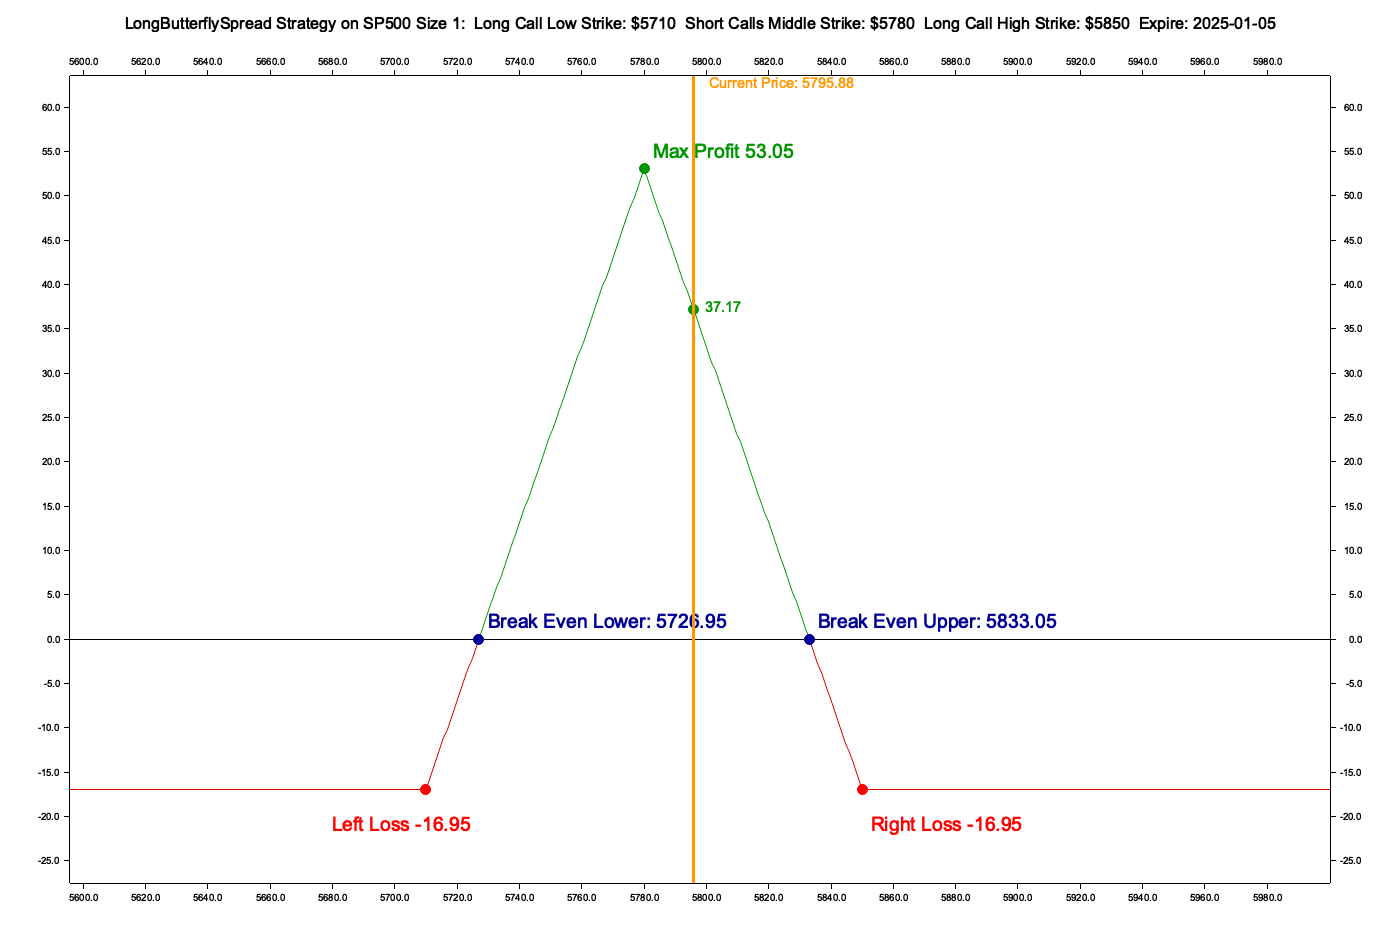
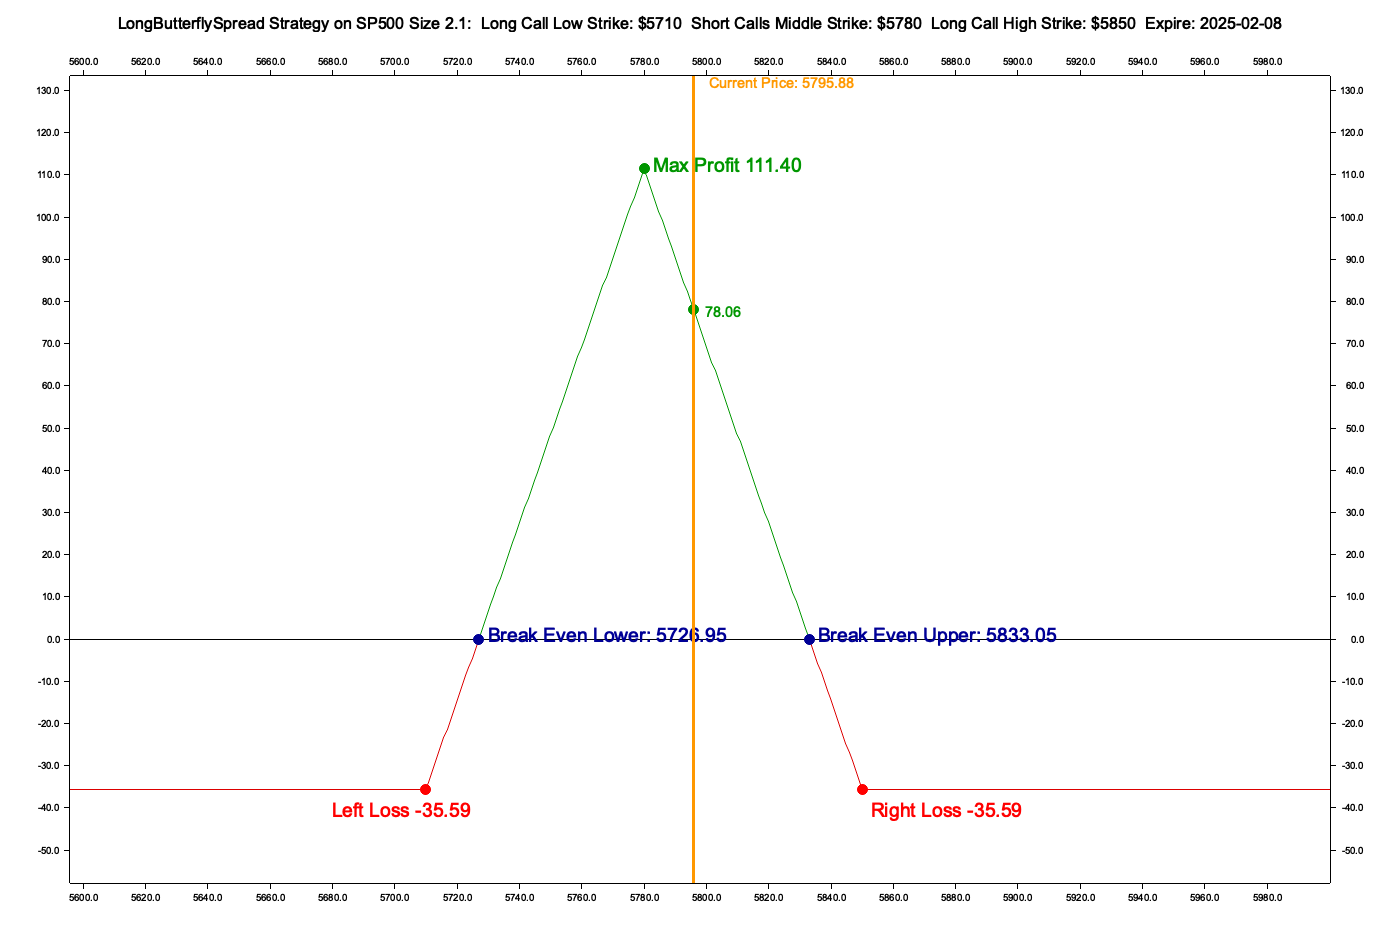
Refactor break-even calculation into dedicated function
Moved the break-even points calculation logic into `update_break_even_points` for both LongButterflySpread and ShortButterflySpread. This improves code readability, reduces duplication, and centralizes break-even handling for easier maintenance and scalability.

diff --git a/src/strategies/butterfly_spread.rs b/src/strategies/butterfly_spread.rs
@@ -168,26 +168,9 @@ impl LongButterflySpread {
 
         strategy.validate();
 
-        let left_net_value = strategy
-            .calculate_profit_at(strategy.long_call_low.option.strike_price)
-            .unwrap()
-            / quantity;
-        let right_net_value = strategy
-            .calculate_profit_at(strategy.long_call_high.option.strike_price)
-            .unwrap()
-            / quantity;
-
-        if left_net_value <= Decimal::ZERO {
-            strategy
-                .break_even_points
-                .push((strategy.long_call_low.option.strike_price - left_net_value).round_to(2));
-        }
-
-        if right_net_value <= Decimal::ZERO {
-            strategy
-                .break_even_points
-                .push((strategy.long_call_high.option.strike_price + right_net_value).round_to(2));
-        }
+        strategy
+            .update_break_even_points()
+            .expect("Unable to update break even points");
 
         strategy
     }
@@ -197,7 +180,31 @@ impl BreakEvenable for LongButterflySpread {
     fn get_break_even_points(&self) -> Result<&Vec<Positive>, StrategyError> {
         Ok(&self.break_even_points)
     }
+
+    fn update_break_even_points(&mut self) -> Result<(), StrategyError> {
+        self.break_even_points = Vec::new();
+
+        let left_net_value = self.calculate_profit_at(self.long_call_low.option.strike_price)?
+            / self.long_call_low.option.quantity;
+
+        let right_net_value = self.calculate_profit_at(self.long_call_high.option.strike_price)?
+            / self.long_call_high.option.quantity;
+
+        if left_net_value <= Decimal::ZERO {
+            self.break_even_points
+                .push((self.long_call_low.option.strike_price - left_net_value).round_to(2));
+        }
+
+        if right_net_value <= Decimal::ZERO {
+            self.break_even_points
+                .push((self.long_call_high.option.strike_price + right_net_value).round_to(2));
+        }
+
+        self.break_even_points.sort();
+        Ok(())
+    }
 }
+
 impl Validable for LongButterflySpread {
     fn validate(&self) -> bool {
         if !self.long_call_low.validate() {
@@ -979,27 +986,9 @@ impl ShortButterflySpread {
 
         strategy.validate();
 
-        let left_net_value = strategy
-            .calculate_profit_at(strategy.short_call_low.option.strike_price)
-            .unwrap()
-            / quantity;
-        let right_net_value = strategy
-            .calculate_profit_at(strategy.short_call_high.option.strike_price)
-            .unwrap()
-            / quantity;
-
-        if left_net_value >= Decimal::ZERO {
-            strategy
-                .break_even_points
-                .push((strategy.short_call_low.option.strike_price + left_net_value).round_to(2));
-        }
-
-        if right_net_value >= Decimal::ZERO {
-            strategy
-                .break_even_points
-                .push((strategy.short_call_high.option.strike_price - right_net_value).round_to(2));
-        }
-
+        strategy
+            .update_break_even_points()
+            .expect("Unable to update break even points");
         strategy
     }
 }
@@ -1007,6 +996,29 @@ impl ShortButterflySpread {
 impl BreakEvenable for ShortButterflySpread {
     fn get_break_even_points(&self) -> Result<&Vec<Positive>, StrategyError> {
         Ok(&self.break_even_points)
+    }
+
+    fn update_break_even_points(&mut self) -> Result<(), StrategyError> {
+        self.break_even_points = Vec::new();
+
+        let left_net_value = self.calculate_profit_at(self.short_call_low.option.strike_price)?
+            / self.short_call_low.option.quantity;
+
+        let right_net_value = self.calculate_profit_at(self.short_call_high.option.strike_price)?
+            / self.short_call_high.option.quantity;
+
+        if left_net_value >= Decimal::ZERO {
+            self.break_even_points
+                .push((self.short_call_low.option.strike_price + left_net_value).round_to(2));
+        }
+
+        if right_net_value >= Decimal::ZERO {
+            self.break_even_points
+                .push((self.short_call_high.option.strike_price - right_net_value).round_to(2));
+        }
+
+        self.break_even_points.sort();
+        Ok(())
     }
 }
 

diff --git a/examples/examples_strategies/src/bin/strategy_long_butterfly_spread.rs b/examples/examples_strategies/src/bin/strategy_long_butterfly_spread.rs
@@ -32,7 +32,7 @@ fn main() -> Result<(), Box<dyn Error>> {
         pos!(0.18),     // implied_volatility
         dec!(0.05),     // risk_free_rate
         Positive::ZERO, // dividend_yield
-        pos!(2.0),      // long quantity
+        pos!(2.1),      // long quantity
         pos!(113.3),    // premium_long_low
         pos!(64.20),    // premium_short
         pos!(31.65),    // premium_long_high

diff --git a/examples/examples_strategies/src/bin/strategy_short_butterfly_spread.rs b/examples/examples_strategies/src/bin/strategy_short_butterfly_spread.rs
@@ -31,7 +31,7 @@ fn main() -> Result<(), Box<dyn Error>> {
         pos!(0.18),     // implied_volatility
         dec!(0.05),     // risk_free_rate
         Positive::ZERO, // dividend_yield
-        pos!(1.0),      // long quantity
+        pos!(1.1),      // long quantity
         pos!(119.01),   // premium_long
         pos!(66.0),     // premium_short
         pos!(29.85),    // open_fee_long
